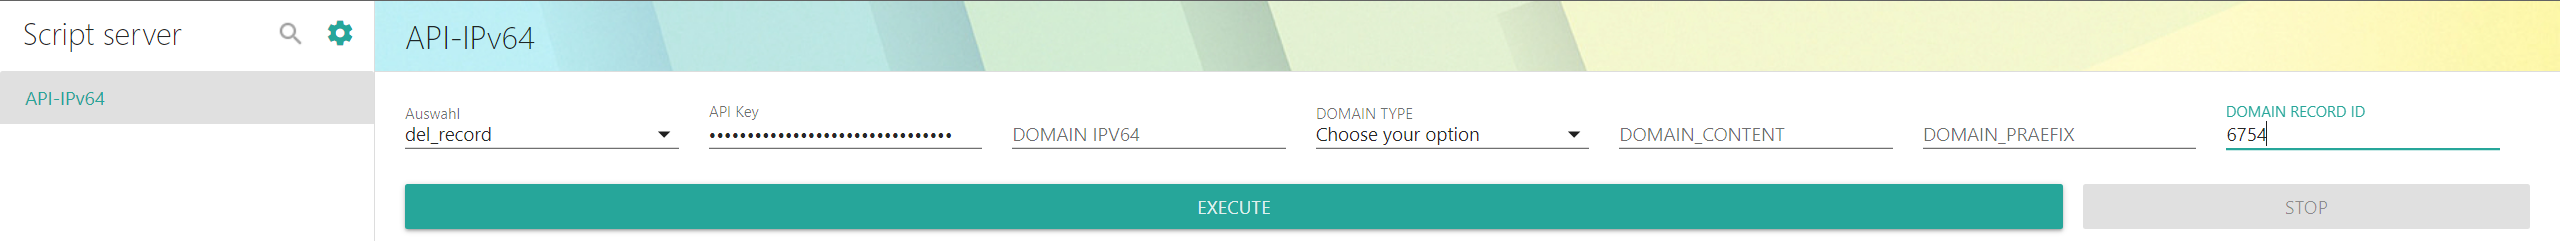
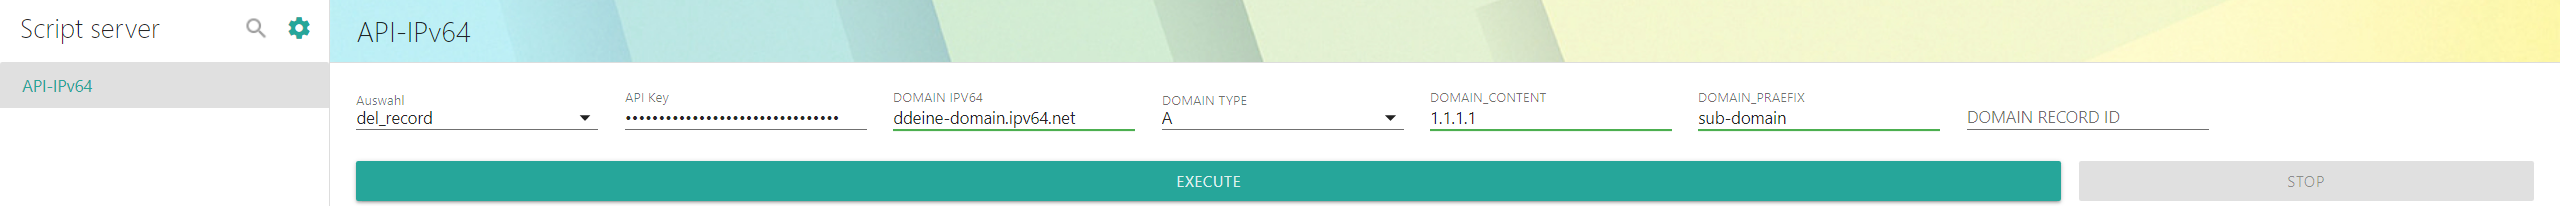
v0.0.3

diff --git a/app/conf/scripts/record-id-info.py b/app/conf/scripts/record-id-info.py
@@ -29,7 +29,7 @@ def search_entry(ent):
                 for subdomain in ent[key].keys():
                     x.field_names =  ['Domain', 'Type', 'Praefix', 'Content', 'TTL', 'Last Update', 'Record ID']
                     build_table(ent, key, subdomain)
-                x.max_width = int(breite)                   
+                x.max_width = int(breite)
                 x.sortby = 'Domain'
                 print(x)
             else:
@@ -42,8 +42,8 @@ def search_entry(ent):
                             exit()
                 else:
                     exit('Domain not found')
-                                         
-                        
+
+
 load_dotenv()
 try:
     search = argv[2]
@@ -55,14 +55,12 @@ except:
     exit("No API Key given")
 agent = os.getenv('CURL_USER_AGENT')
 if agent == '':
-    agent = './𝕾𝖊𝖗𝖕𝖊𝖓𝖘𝖎𝖓.𝖘𝖍#0007 on Discord. Github: https://github.com/Serpensin'
-
+    agent = 'Discord: Alcapone1933#0041'
 
 breite = os.getenv('TABELLE_BREITE')
 if breite is None:
     breite = 30
-    
-    
+
 headers = {
   'Authorization': f'Bearer {api_key}',
   'User-Agent': agent,
@@ -71,7 +69,6 @@ headers = {
 response = r.request("GET", "https://ipv64.net/api.php?get_domains", headers=headers)
 if response.status_code != 200:
     exit("API Key not valid")
-    
 
 x = PrettyTable()
 search_entry(json.loads(response.text))

diff --git a/docs/docker-api-vorlage.md b/docs/docker-api-vorlage.md
@@ -16,18 +16,30 @@ Schau dir Die Volage der API Beispiele [DynDNS API IPV64.NET Vorlage](/docs/api-
   - [add_record_praefix = [POST] API DNS Record hinzufügen MIT PRAEFIX](#auswahl-api-abfrage-add_record_praefix)
   - [get_domains_record_id-info = [GET] API Domain Für Record ID](#auswahl-api-abfrage-get_domains_record_id-info)
   - [del_record = [DELETE] API DNS Record löschen](#auswahl-api-abfrage-del_record)
+  - [del_record_id = [DELETE] API DNS Record löschen](#auswahl-api-abfrage-del_record_id)
 
 | Auswahl                       | API Key                     | DOMAIN IPV64            | DOMAIN TYPE | DOMAIN_CONTENT | DOMAIN_PRAEFIX | DOMAIN RECORD ID |
 | ----------------------------- | --------------------------- | ----------------------- | ----------- | -------------- | -------------- | ---------------- |
 | get_account_info              | 123456787654321234567876543 | ----------------------- | ----------- | -------------- | -------------- | ---------------- |
+| _____________________________ | ___________________________ | _______________________ | ___________ | ______________ | ______________ | ________________ |
 | get_logs                      | 123456787654321234567876543 | ----------------------- | ----------- | -------------- | -------------- | ---------------- |
+| _____________________________ | ___________________________ | _______________________ | ___________ | ______________ | ______________ | ________________ |
 | get_domains                   | 123456787654321234567876543 | ----------------------- | ----------- | -------------- | -------------- | ---------------- |
+| _____________________________ | ___________________________ | _______________________ | ___________ | ______________ | ______________ | ________________ |
 | add_domain                    | 123456787654321234567876543 | ddeine-domain.ipv64.net | ----------- | -------------- | -------------- | ---------------- |
+| _____________________________ | ___________________________ | _______________________ | ___________ | ______________ | ______________ | ________________ |
 | del_domain                    | 123456787654321234567876543 | ddeine-domain.ipv64.net | ----------- | -------------- | -------------- | ---------------- |
+| _____________________________ | ___________________________ | _______________________ | ___________ | ______________ | ______________ | ________________ |
 | add_record                    | 123456787654321234567876543 | ddeine-domain.ipv64.net | A           | 1.1.1.1        | -------------- | ---------------- |
+| _____________________________ | ___________________________ | _______________________ | ___________ | ______________ | ______________ | ________________ |
 | add_record_praefix            | 123456787654321234567876543 | ddeine-domain.ipv64.net | A           | 1.1.1.1        | sub-domain     | ---------------- |
+| _____________________________ | ___________________________ | _______________________ | ___________ | ______________ | ______________ | ________________ |
 | get_domains_record_id-info    | 123456787654321234567876543 | ----------------------- | ----------- | -------------- | -------------- | ---------------- |
-| del_record                    | 123456787654321234567876543 | ----------------------- | ----------- | -------------- | -------------- | 3469             |
+| get_domains_record_id-info    | 123456787654321234567876543 | ddeine-domain.ipv64.net | ----------- | -------------- | -------------- | ---------------- |
+| _____________________________ | ___________________________ | _______________________ | ___________ | ______________ | ______________ | ________________ |
+| del_record                    | 123456787654321234567876543 | ddeine-domain.ipv64.net | A           | 1.1.1.1        | sub-domain     | ---------------- |
+| _____________________________ | ___________________________ | _______________________ | ___________ | ______________ | ______________ | ________________ |
+| del_record_id                 | 123456787654321234567876543 | ----------------------- | ----------- | -------------- | -------------- | 3469             |
 
 ***
 
@@ -221,6 +233,7 @@ Schau dir Die Volage der API Beispiele [DynDNS API IPV64.NET Vorlage](/docs/api-
 | Auswahl                       | API Key                     | DOMAIN IPV64            | DOMAIN TYPE | DOMAIN_CONTENT | DOMAIN_PRAEFIX | DOMAIN RECORD ID |
 | ----------------------------- | --------------------------- | ----------------------- | ----------- | -------------- | -------------- | ---------------- |
 | get_domains_record_id-info    | 123456787654321234567876543 | ----------------------- | ----------- | -------------- | -------------- | ---------------- |
+| get_domains_record_id-info    | 123456787654321234567876543 | deine-domain.ipv64.de   | ----------- | -------------- | -------------- | ---------------- |
 
 <img src="../img/get_domains_record_id-info.png" width="1400" height="150">
 
@@ -243,9 +256,29 @@ Schau dir Die Volage der API Beispiele [DynDNS API IPV64.NET Vorlage](/docs/api-
 
 | Auswahl                       | API Key                     | DOMAIN IPV64            | DOMAIN TYPE | DOMAIN_CONTENT | DOMAIN_PRAEFIX | DOMAIN RECORD ID |
 | ----------------------------- | --------------------------- | ----------------------- | ----------- | -------------- | -------------- | ---------------- |
-| del_record                    | 123456787654321234567876543 | ----------------------- | ----------- | -------------- | -------------- | 6754             |
+| del_record                    | 123456787654321234567876543 | ddeine-domain.ipv64.net | A           | 1.1.1.1        | sub-domain     | ---------------- |
 
 <img src="../img/del_record.png" width="1400" height="150">
+
+#### AUSGABE
+```json
+{
+  "info": "success",
+  "status": "202 Accepted",
+  "del_record": "del_record"
+}
+```
+
+***
+
+### Auswahl Api abfrage **del_record_id**
+- del_record_id = [DELETE] API DNS Record löschen
+
+| Auswahl                       | API Key                     | DOMAIN IPV64            | DOMAIN TYPE | DOMAIN_CONTENT | DOMAIN_PRAEFIX | DOMAIN RECORD ID |
+| ----------------------------- | --------------------------- | ----------------------- | ----------- | -------------- | -------------- | ---------------- |
+| del_record_id                 | 123456787654321234567876543 | ----------------------- | ----------- | -------------- | -------------- | 6754             |
+
+<img src="../img/del_record_id.png" width="1400" height="150">
 
 #### AUSGABE
 ```json
